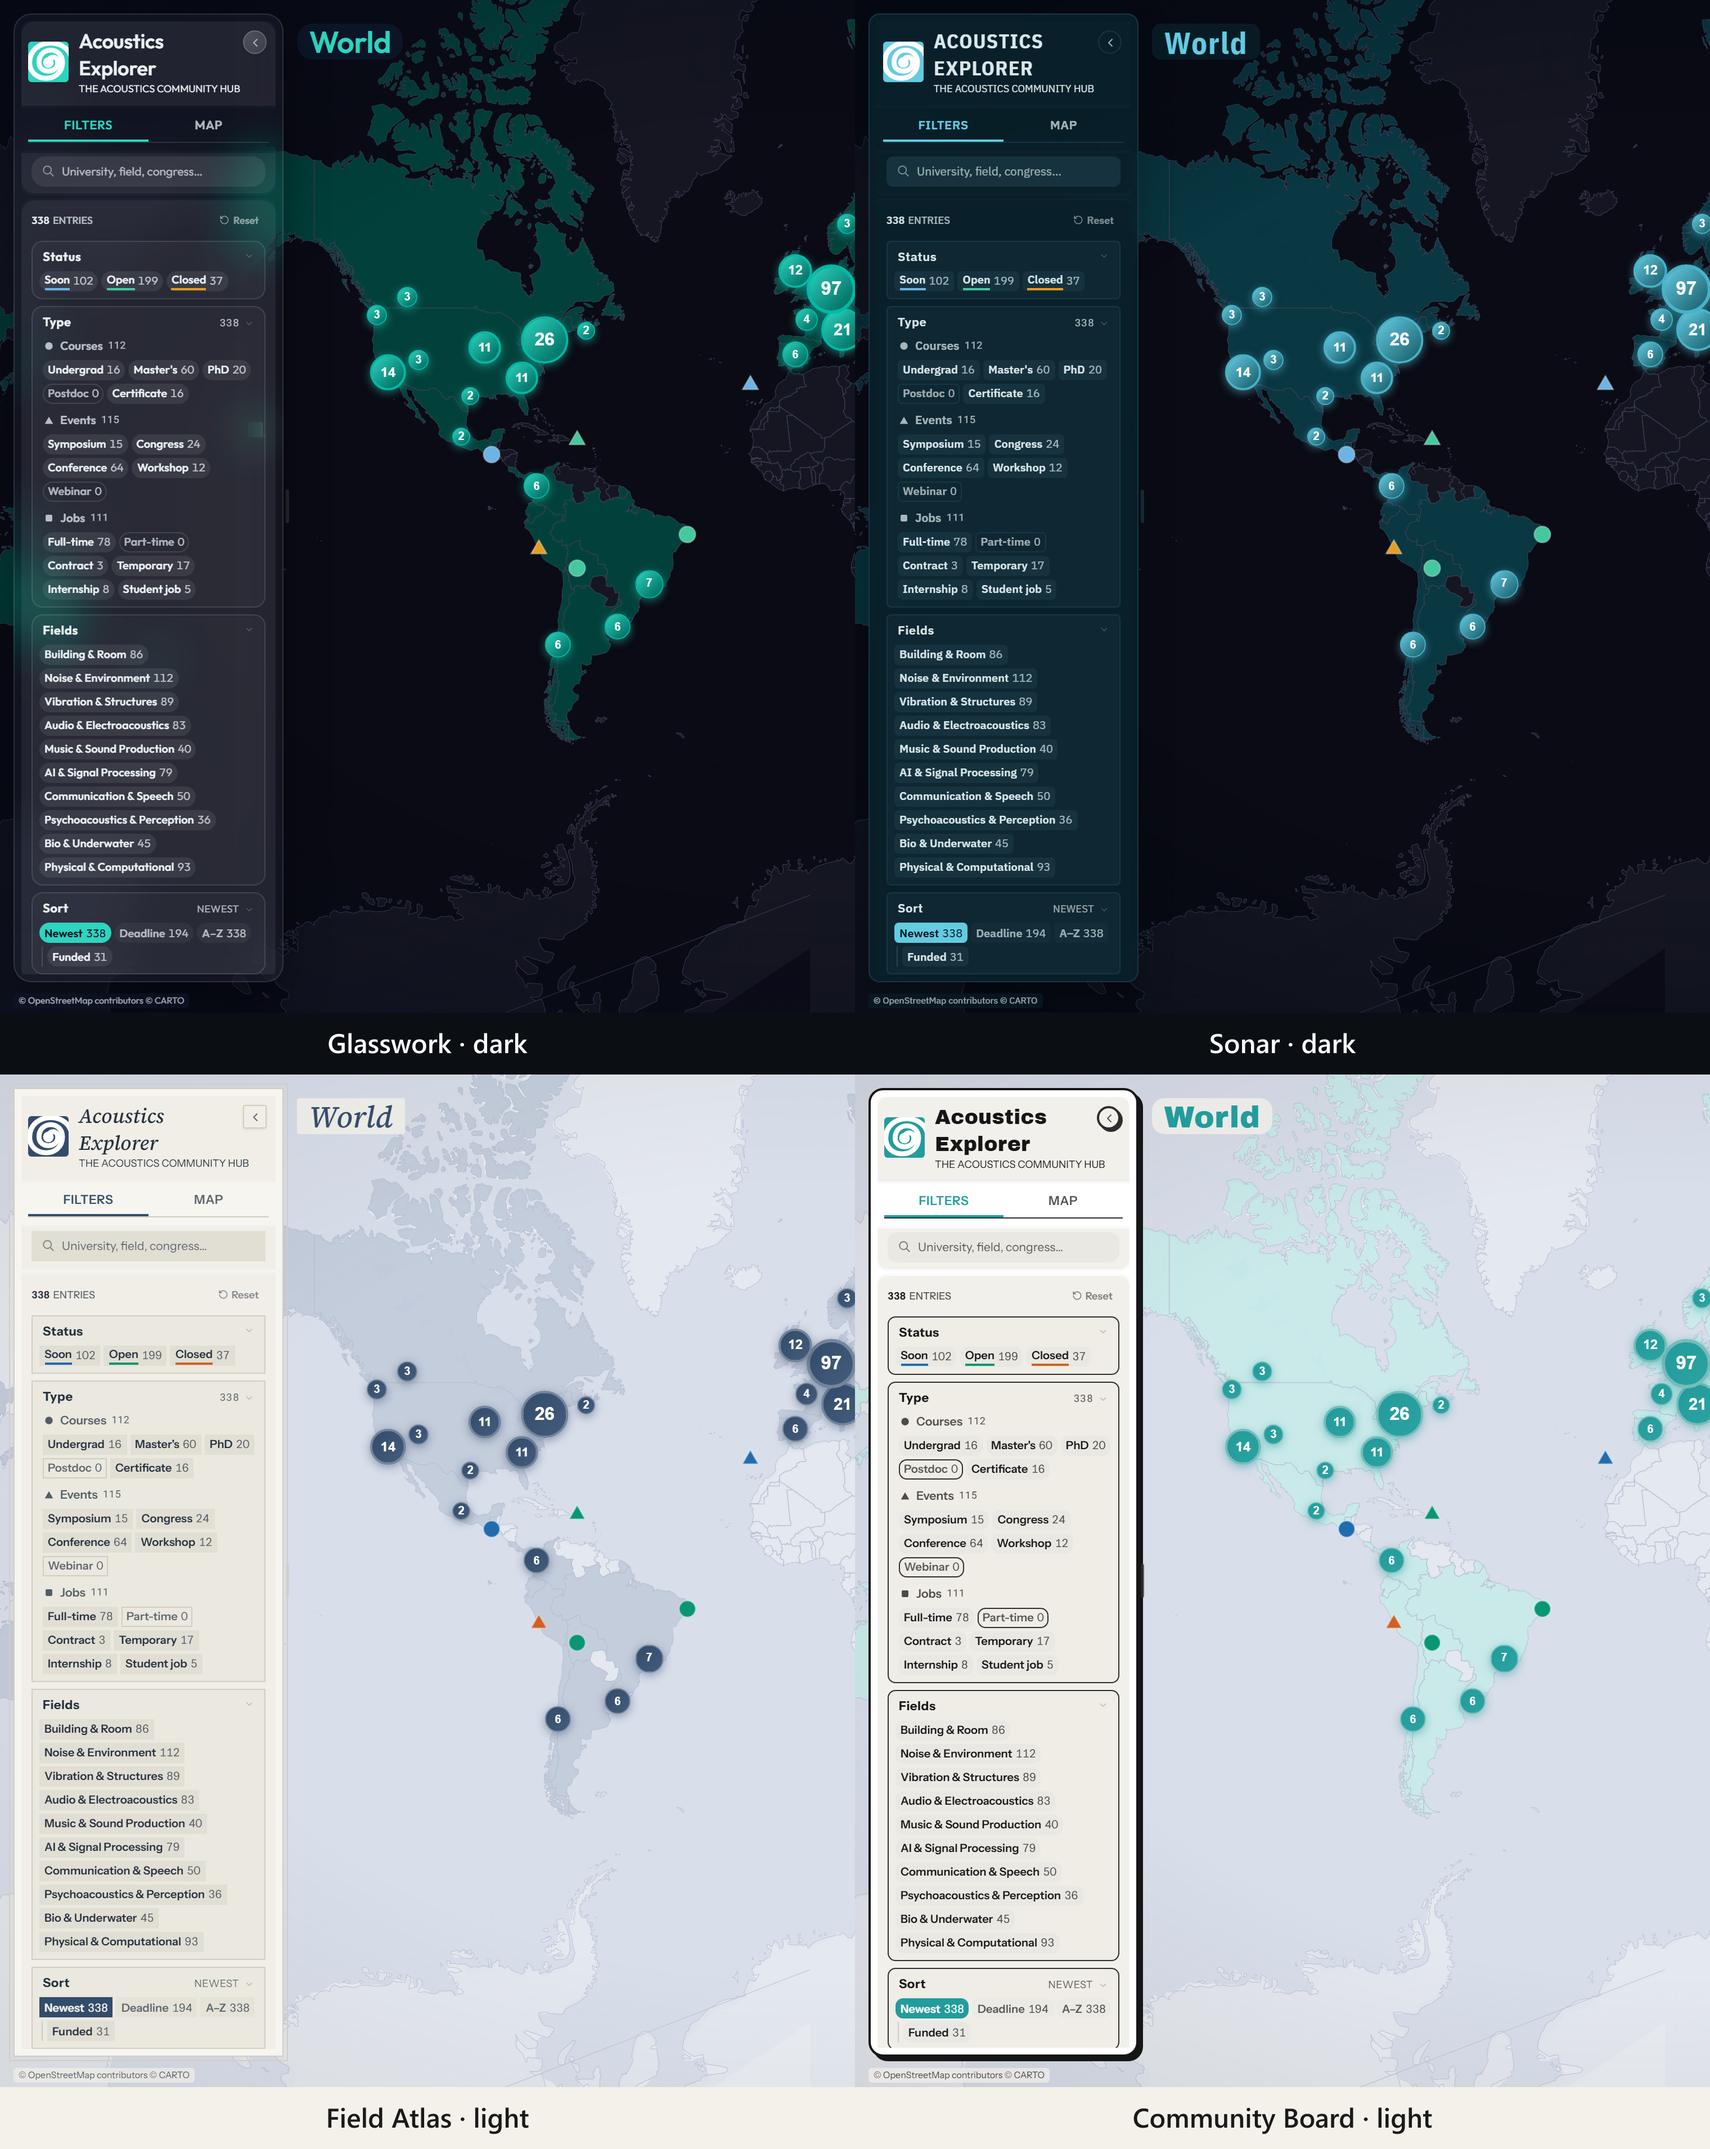
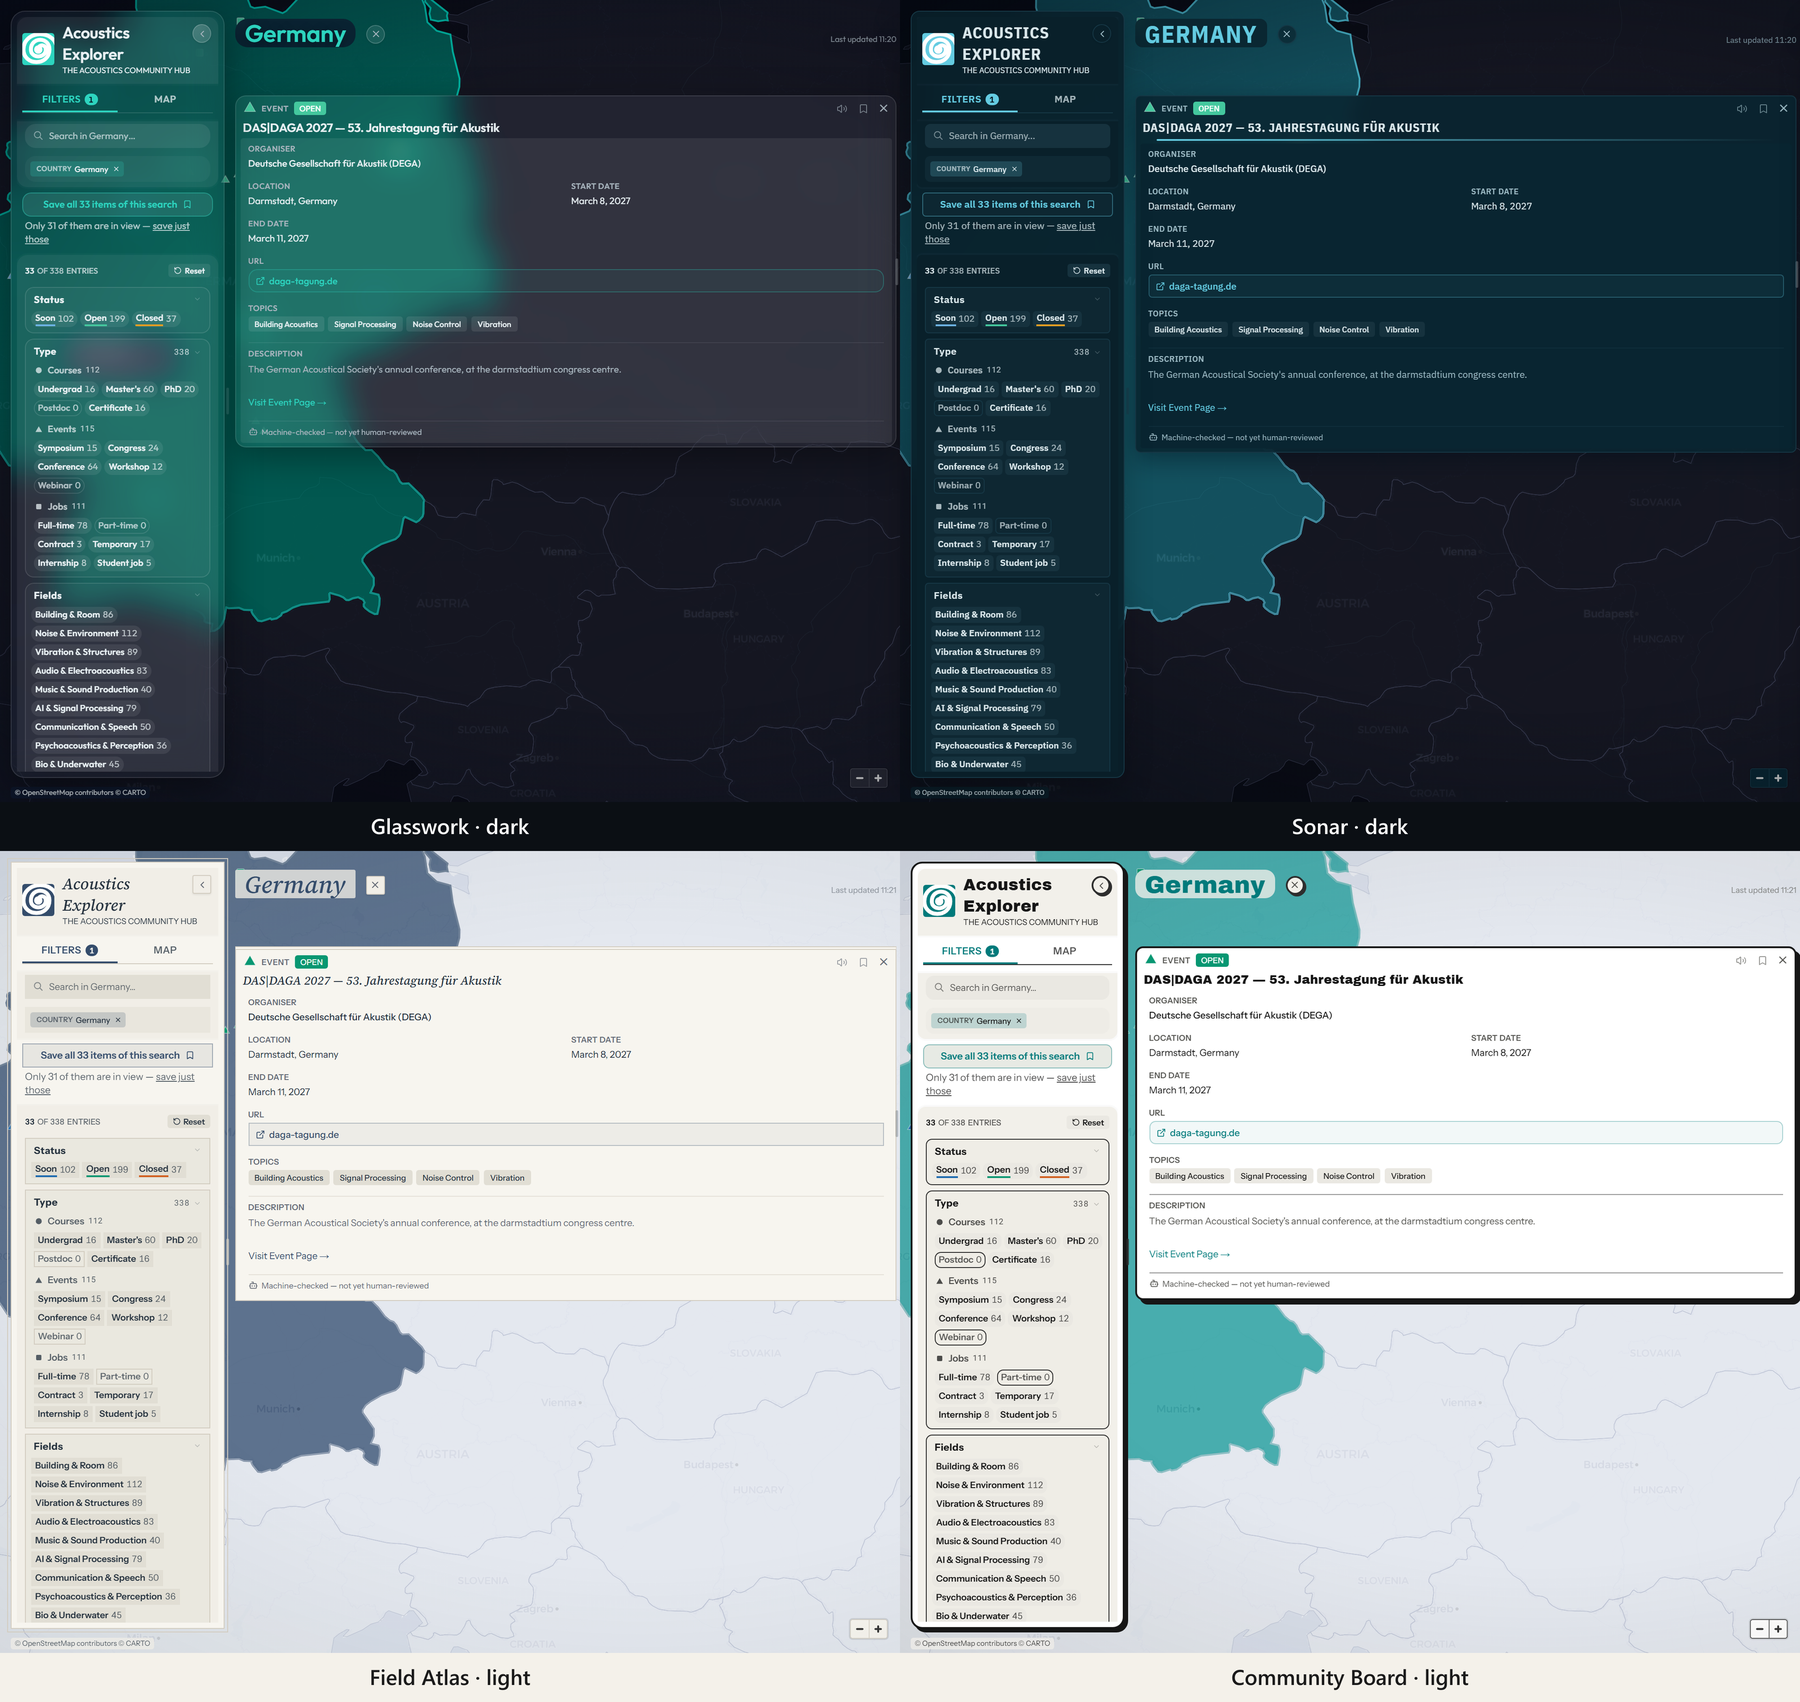
docs: theme grid with the entry card open; Community Board's new teal

diff --git a/README.md b/README.md
@@ -121,7 +121,7 @@ fills itself in; every submission is reviewed before it appears.
 
 ## Seven looks, light and dark
 
-![Four of the seven skins, two dark and two light](screenshots/themes.png)
+![Four of the seven skins, two dark and two light, each with an entry open](screenshots/themes.png)
 
 **Anechoic** (the default: precision lab), **Glasswork**, **Sonar**, **Control Room**,
 **Field Atlas**, **Community Board** and **High Contrast**, each in light and dark. They
